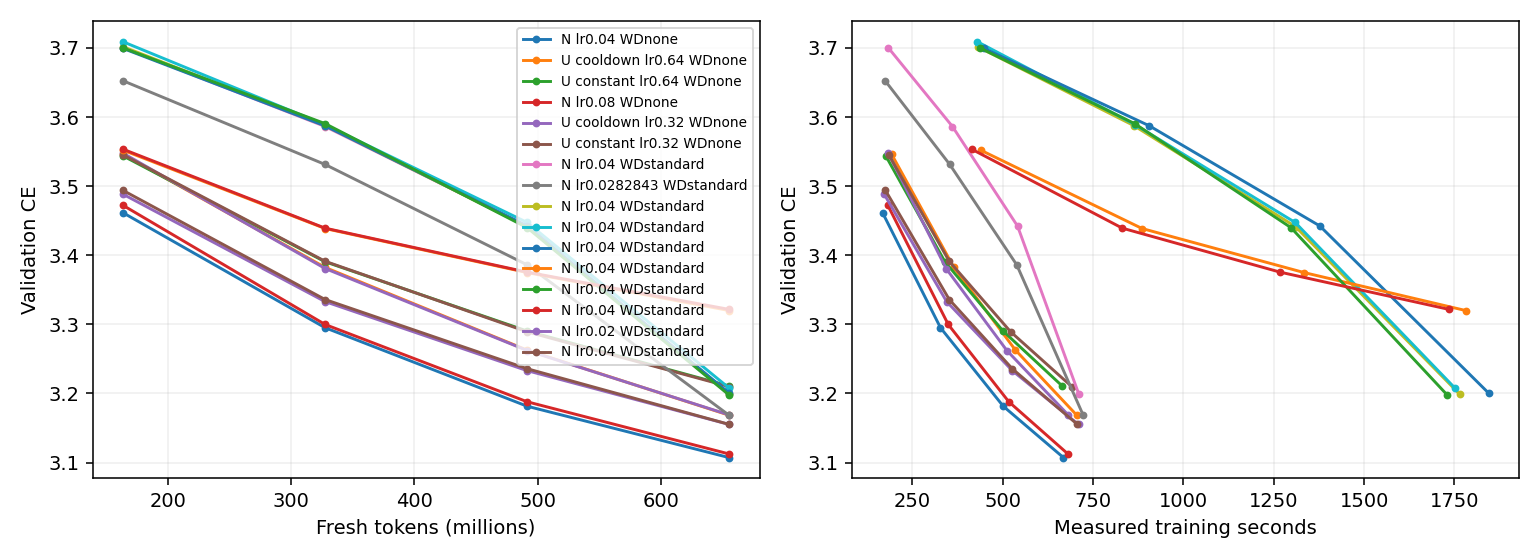
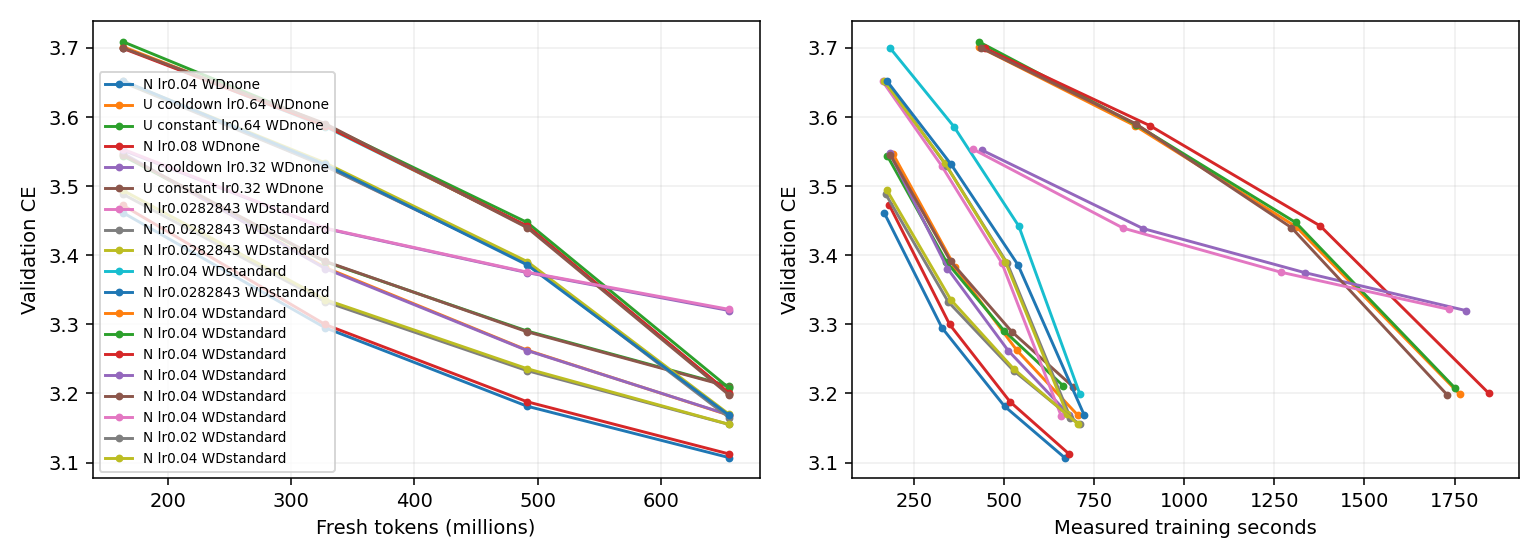
Update live Muon experiment results

diff --git a/research/unnormalized_muon/RESULTS.md b/research/unnormalized_muon/RESULTS.md
@@ -67,6 +67,9 @@ One B300 per job. CE is token cross-entropy (nats); lower is better. Rows with d
 | um-lens-check-6-periodic | Clean GapWD joint uniform v2 c-in-Q quadratic cap0.02/stable fixed_lambda=0.18375 WD:standard(0) | 64 | 0 | 0.04 | 6.490925 | 1.967030 | — | 95.36 |
 | um-lens-check-7-warm-time-control | Clean Native cooldown v2 c-in-Q time5.0s fixed_lambda=0.18375 WD:standard(0) | 96 | 0 | 0.04 | 6.041687 | 1.831145 | — | 81.78 |
 | um-lens-check-8-warm-time-layer | Clean GapWD layer uniform v2 c-in-Q armijo cap0.02/stable time5.0s fixed_lambda=0.18375 WD:standard(0) | 50 | 0 | 0.04 | 6.365249 | 1.929079 | — | 85.49 |
+| um-lens-confirm-control-s10 | Clean Native cooldown v2 c-in-Q fixed_lambda=0.18375 WD:standard(0) | 20000 | 10 | 0.0282843 | 3.167631 | 0.960357 | 3.114569 | 741.10 |
+| um-lens-confirm-control-s11 | Clean Native cooldown v2 c-in-Q fixed_lambda=0.18375 WD:standard(0) | 20000 | 11 | 0.0282843 | 3.164999 | 0.959575 | 3.110158 | 745.36 |
+| um-lens-confirm-control-s12 | Clean Native cooldown v2 c-in-Q fixed_lambda=0.18375 WD:standard(0) | 20000 | 12 | 0.0282843 | 3.169816 | 0.960987 | 3.114145 | 733.38 |
 | um-lens-creative-ema0p5 | Clean GapWD layer uniform v2 c-in-Q armijo cap0.01/cooldown fixed_lambda=0.18375 WD:standard(0) | 2000 | 0 | 0.04 | 3.555660 | 1.077899 | — | 247.79 |
 | um-lens-creative-ema0p9 | Clean GapWD layer uniform v2 c-in-Q armijo cap0.01/cooldown fixed_lambda=0.18375 WD:standard(0) | 2000 | 0 | 0.04 | 3.558717 | 1.078825 | — | 229.92 |
 | um-lens-creative-periodic2 | Clean GapWD joint uniform v2 c-in-Q quadratic cap0.01/cooldown fixed_lambda=0.18375 WD:standard(0) | 2000 | 0 | 0.04 | 3.554936 | 1.077708 | — | 243.89 |
@@ -175,7 +178,7 @@ One B300 per job. CE is token cross-entropy (nats); lower is better. Rows with d
 
 Review of um-fw-diagnostic-001: Compiled training f0 compared against functional candidate losses; vanishing-step mismatch2-4e-5 exceeded tolerance, leading to curvature1e186 and45 skipped steps. Replaced by paired functional reference and candidates; retain all645 measured forwards and GPUcost.
 
-Conservative charged/reserved total: 14.8204 / 30 B300 GPU-hours. Includes prior smoke/failed attempts and current maximum-duration reservations. Six-slot central queue; one B300 per run.
+Conservative charged/reserved total: 19.9832 / 30 B300 GPU-hours. Includes prior smoke/failed attempts and current maximum-duration reservations. Six-slot central queue; one B300 per run.
 
 CLEAN geometry disables row equilibration and NorMuon. Original clean runs use zero matrix decay; new WD runs explicitly label standard or cautious decay and their CLI coefficient. Same five Polar Express steps and Frobenius correction; scale by the per-matrix nonnegative FP32 inner product of the native Nesterov input with the NS/Frobenius direction. Shape scaling occurs once outside the scalar. Legacy rows retain production extras and must be compared separately. Constant schedule changes only matrix LR; auxiliary schedules and momentum remain matched.
 

diff --git a/research/unnormalized_muon/DETAILED_EVAL.md b/research/unnormalized_muon/DETAILED_EVAL.md
@@ -12,6 +12,9 @@ All results use the B300 fork model/data/tokenizer and a fixed tuning-validation
 | normalized WD none 0 | 0.08 | 20000 | 3.112453 | 680.91 | 755.24 |
 | unnormalized cooldown WD none 0 | 0.32 | 20000 | 3.168984 | 681.31 | 754.69 |
 | unnormalized constant WD none 0 | 0.32 | 20000 | 3.209921 | 691.44 | 765.35 |
+| normalized WD standard 0 | 0.0282843 | 20000 | 3.167631 | 658.92 | 741.10 |
+| normalized WD standard 0 | 0.0282843 | 20000 | 3.164999 | 684.42 | 745.36 |
+| normalized WD standard 0 | 0.0282843 | 20000 | 3.169816 | 676.02 | 733.38 |
 | normalized WD standard 0 | 0.04 | 20000 | 3.199618 | 710.50 | 788.71 |
 | normalized WD standard 0 | 0.0282843 | 20000 | 3.168332 | 723.17 | 786.20 |
 | normalized WD standard 0 | 0.04 | 20000 | 3.199090 | 1763.98 | 1834.23 |
@@ -286,6 +289,9 @@ um-lens-check-8-warm-time-layer: accepted 50/50; skipped nonpositive blocks 70; 
 
 Timing seconds: direction=1.317, reference=0.399, candidates=0.395, auxiliary=0.041.
 
+| um-lens-confirm-control-s10 | cooldown native | 0.1837499 | 20000 | 3.167631 | 0 | 741.10 |
+| um-lens-confirm-control-s11 | cooldown native | 0.1837499 | 20000 | 3.164999 | 0 | 745.36 |
+| um-lens-confirm-control-s12 | cooldown native | 0.1837499 | 20000 | 3.169816 | 0 | 733.38 |
 | um-lens-creative-ema0p5 | layer native | 0.1837499 | 2000 | 3.555660 | 4000 | 247.79 |
 
 um-lens-creative-ema0p5: accepted 2000/2000; skipped nonpositive blocks 90; median actual eta 0.00757385; median gamma 0.00139169; median L 1e-16; median trials 1; max measured spectral ratio lambda*||W||op=0.405719. Native approximate NS can violate the ideal unit-oracle premise; this is recorded, not hidden.

diff --git a/research/unnormalized_muon/FW_LENS_RESULTS.md b/research/unnormalized_muon/FW_LENS_RESULTS.md
@@ -17,6 +17,9 @@ Token-based schedule curves are descriptive. Independently scheduled equal-time 
 | um-lens-check-6-periodic | joint | 64 updates | 0 | 6.490925 | — | 14.250 | 48 | 0.000 | 95.36 |
 | um-lens-check-7-warm-time-control | cooldown | 5.000s | 0 | 6.041687 | — | 5.034 | 0 | 34.360 | 81.78 |
 | um-lens-check-8-warm-time-layer | layer | 5.000s | 0 | 6.365249 | — | 5.016 | 100 | 31.631 | 85.49 |
+| um-lens-confirm-control-s10 | control | 20000 updates | 10 | 3.167631 | 3.114569 | 661.345 | 0 | 33.696 | 741.10 |
+| um-lens-confirm-control-s11 | control | 20000 updates | 11 | 3.164999 | 3.110158 | 686.883 | 0 | 25.427 | 745.36 |
+| um-lens-confirm-control-s12 | control | 20000 updates | 12 | 3.169816 | 3.114145 | 678.993 | 0 | 23.899 | 733.38 |
 | um-lens-creative-ema0p5 | layer-ema | 2000 updates | 0 | 3.555660 | — | 177.247 | 4000 | 33.839 | 247.79 |
 | um-lens-creative-ema0p9 | layer-ema | 2000 updates | 0 | 3.558717 | — | 165.360 | 4000 | 31.419 | 229.92 |
 | um-lens-creative-periodic2 | joint-periodic | 2000 updates | 0 | 3.554936 | — | 151.717 | 3001 | 43.345 | 243.89 |
